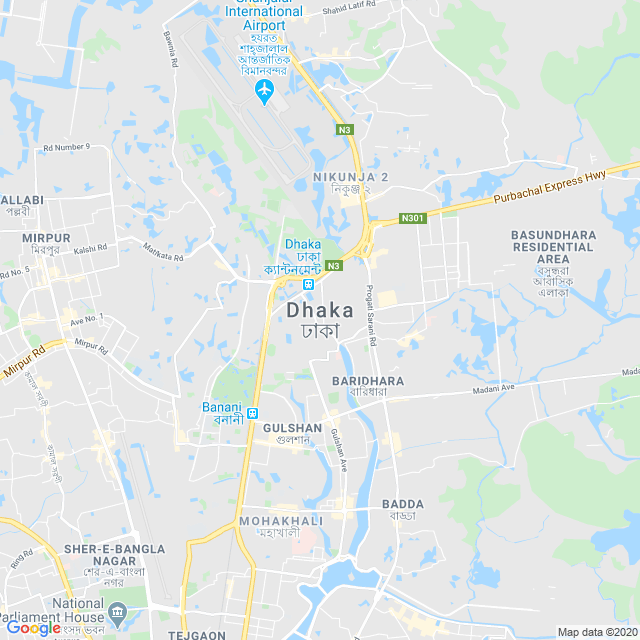
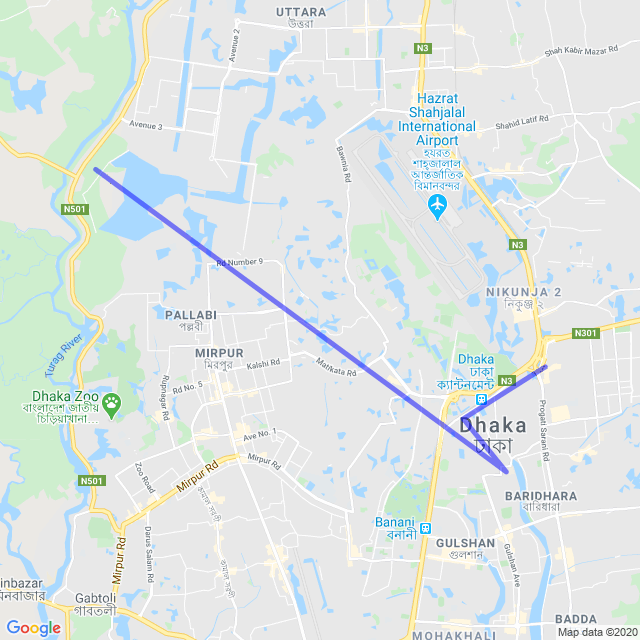
polyline draw

diff --git a/poliline-draw-google-map/main.go b/poliline-draw-google-map/main.go
@@ -9,7 +9,7 @@ import (
 )
 
 func GetMapWithPolygon(output string, geometry string) {
-	endpoint, _ := url.Parse("https://maps.googleapis.com/maps/api/staticmap?center=Dhaka&zoom=13&size=2480x720&key=")
+	endpoint, _ := url.Parse("https://maps.googleapis.com/maps/api/staticmap?path=color:0x0000ff|weight:5|23.85210,90.34421|23.80460,90.41470|23.81293,90.40731|23.82109,90.42139&zoom=13&size=2480x720&key=OUR_API_KEY")
 	queryParams := endpoint.Query()
 	queryParams.Set("ppi", "320")
 	queryParams.Set("w", "1280")
